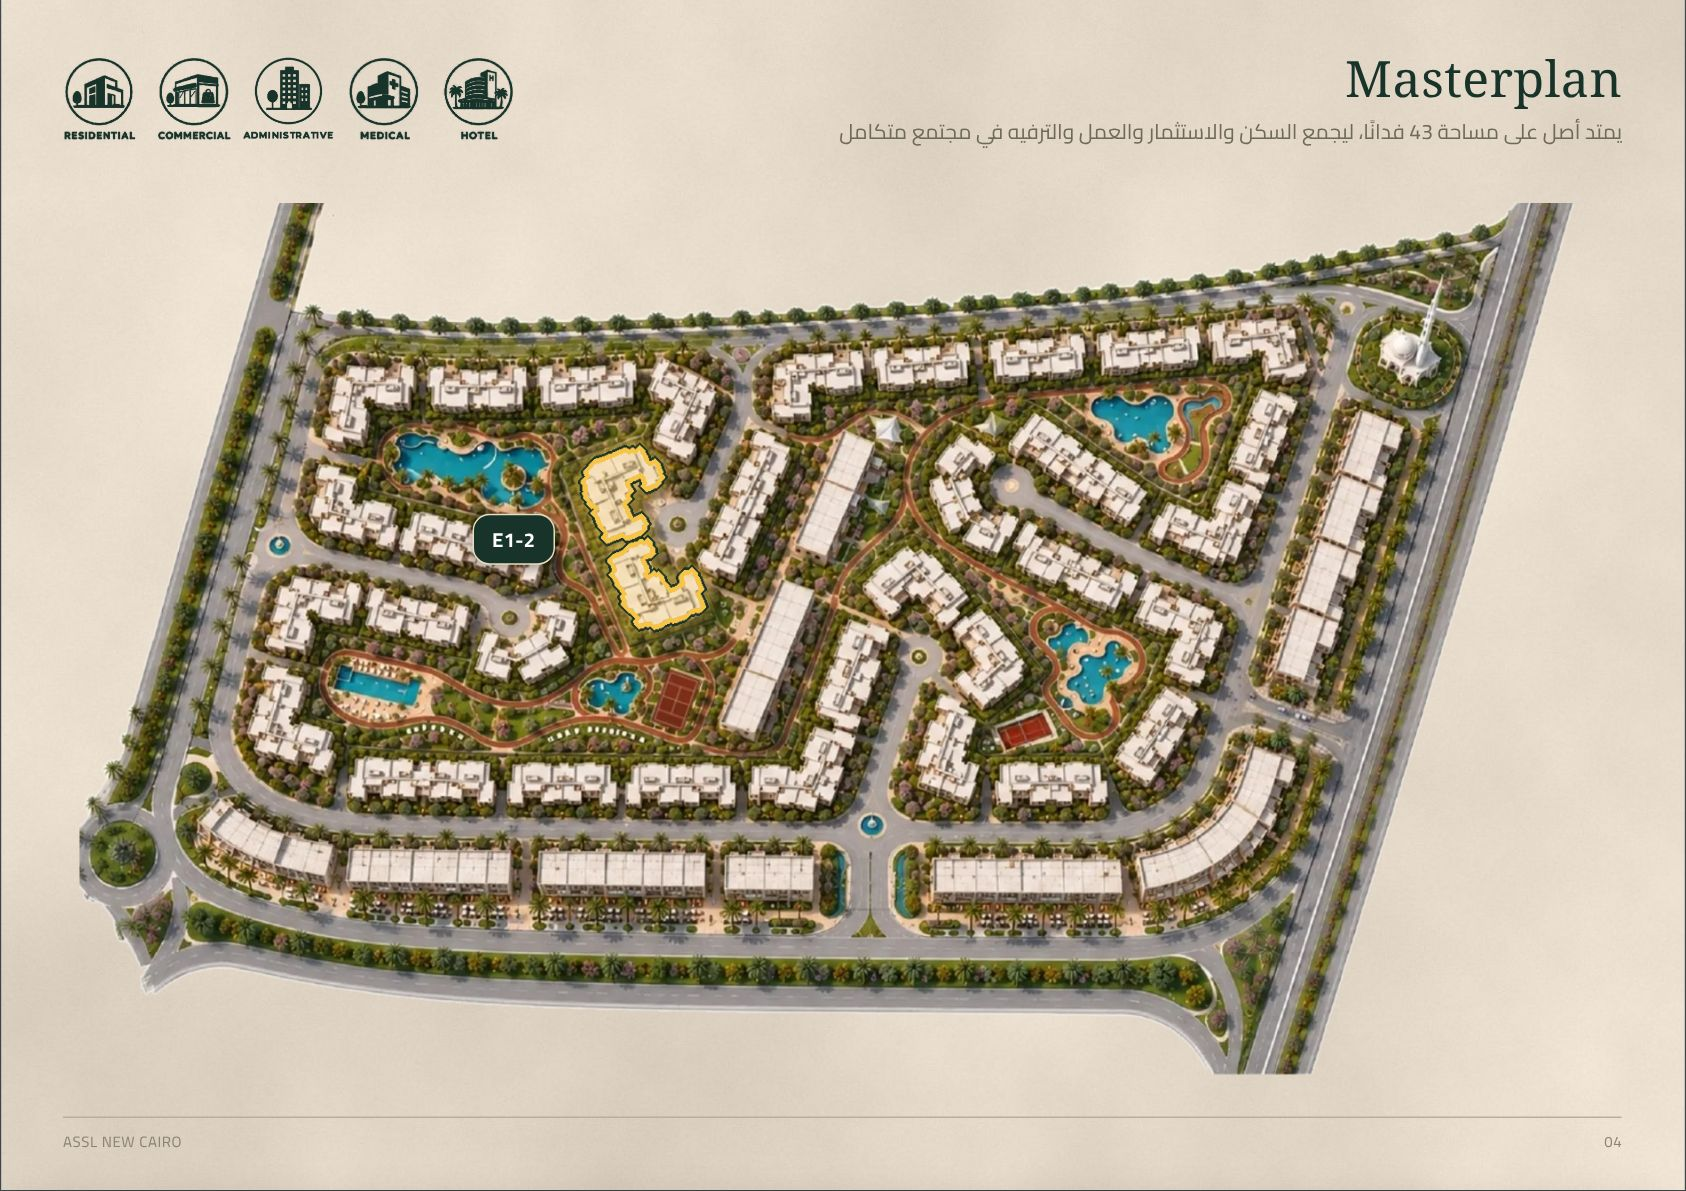
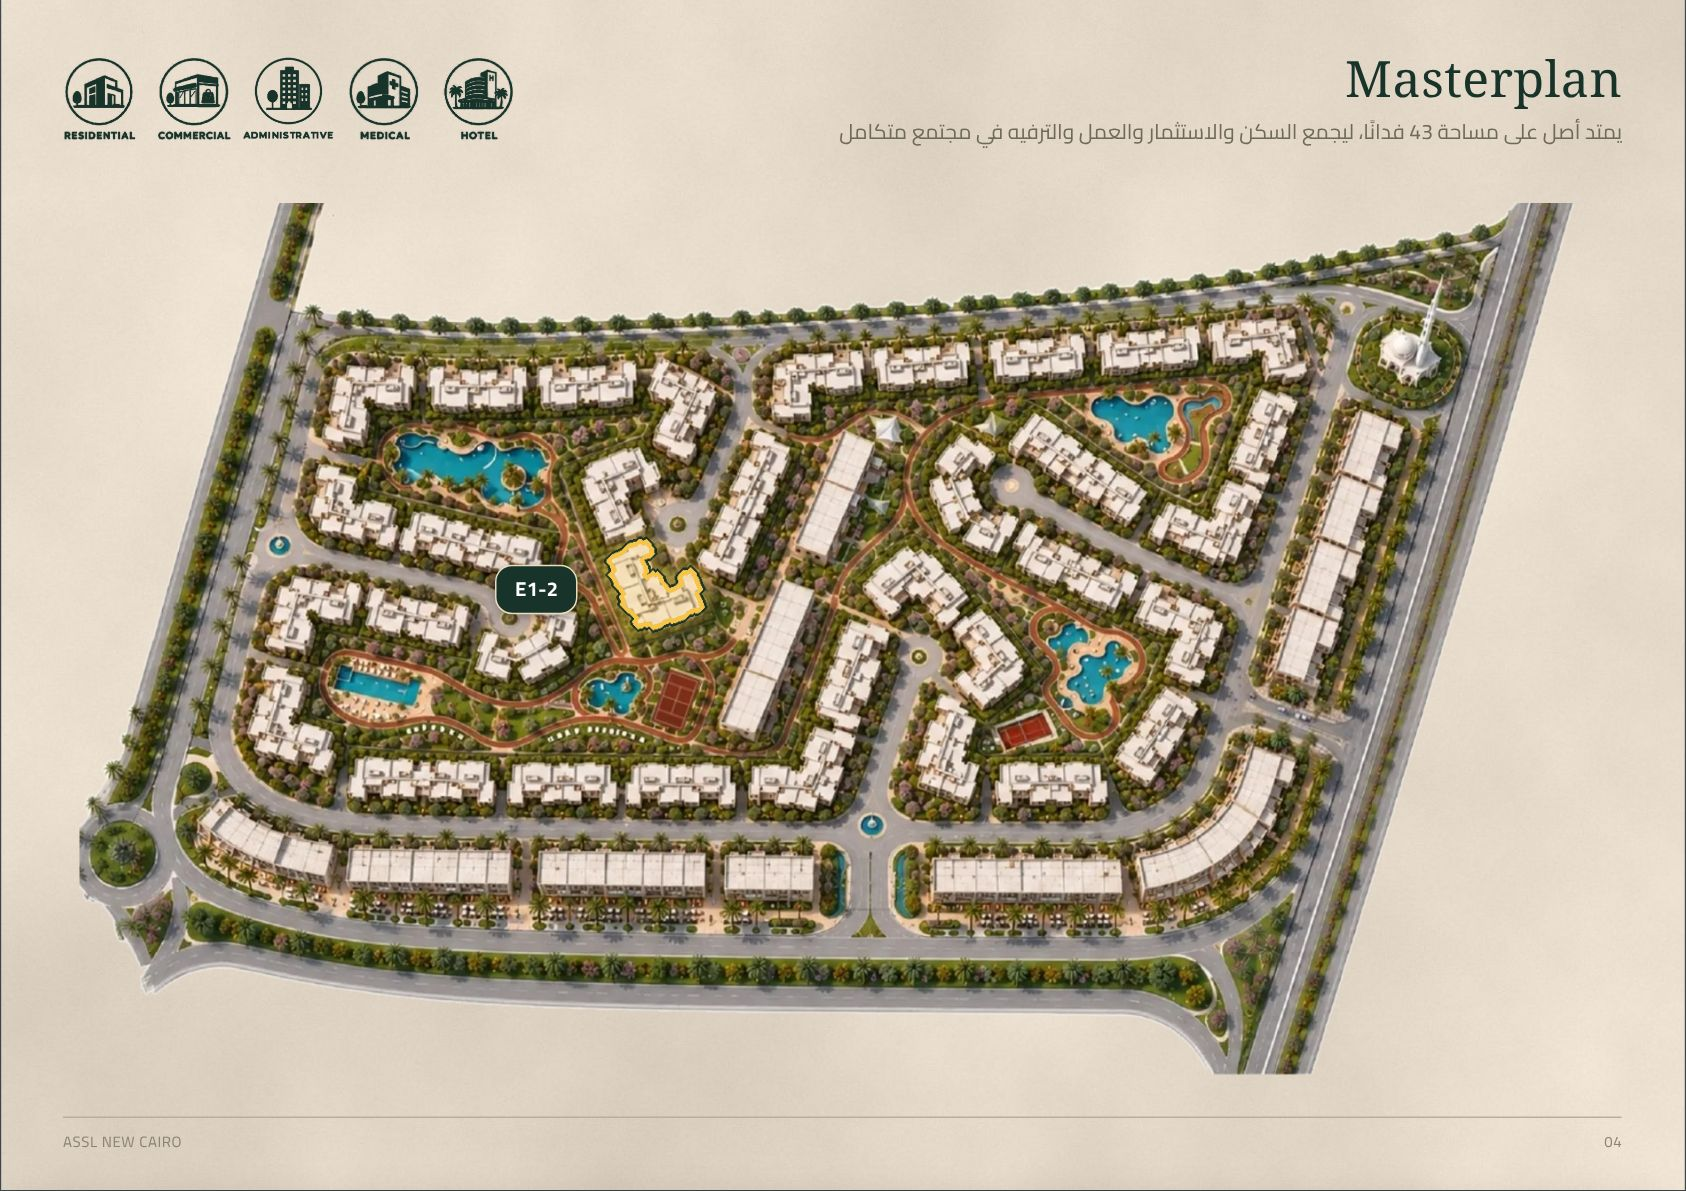
Masterplan: E1-2 outline covers only the lower building (upper one is E'1-2) (#12)
Claude-Session: https://claude.ai/code/session_01D7xEH891DwhXR7T5BSWwGE

Changed region(s): [[0.2776, 0.3728, 0.4318, 0.5281]]

diff --git a/offer/units.js b/offer/units.js
@@ -29,88 +29,9 @@ window.ASSL_UNIT_DETAIL = {
               beds: '3 (منها ماستر بدريسنج)', baths: '3', reception: '✓', terrace: '1' },
 };
 // Building outlines on masterplan_cut.webp as fractions [x0, y0, x1, y1] (matched from the brochure key plans)
-window.ASSL_BUILDING_BOX = {
- "H1-4": [
-  0.1611,
-  0.1823,
-  0.2229,
-  0.2826
- ],
- "A1-9": [
-  0.2306,
-  0.1845,
-  0.2962,
-  0.2403
- ],
- "A1-10": [
-  0.304,
-  0.1823,
-  0.3683,
-  0.238
- ],
- "D1-3": [
-  0.3773,
-  0.1778,
-  0.4223,
-  0.2982
- ],
- "D1-2": [
-  0.1521,
-  0.3005,
-  0.21,
-  0.3985
- ],
- "C1-3": [
-  0.2126,
-  0.354,
-  0.3065,
-  0.4409
- ],
- "E1-2": [
-  0.3323,
-  0.2804,
-  0.4133,
-  0.4922
- ],
- "H1-2": [
-  0.1238,
-  0.4298,
-  0.1856,
-  0.5212
- ],
- "A1-8": [
-  0.1894,
-  0.4409,
-  0.2589,
-  0.5122
- ],
- "F1-2": [
-  0.2615,
-  0.4565,
-  0.3297,
-  0.5524
- ],
- "H1-3": [
-  0.1109,
-  0.5301,
-  0.1688,
-  0.6594
- ],
- "C1-4": [
-  0.1779,
-  0.6348,
-  0.2756,
-  0.6906
- ],
- "A1-7": [
-  0.2834,
-  0.6415,
-  0.3554,
-  0.6906
- ]
-};
+window.ASSL_BUILDING_BOX = {"H1-4": [0.1611, 0.1823, 0.2229, 0.2826], "A1-9": [0.2306, 0.1845, 0.2962, 0.2403], "A1-10": [0.304, 0.1823, 0.3683, 0.238], "D1-3": [0.3773, 0.1778, 0.4223, 0.2982], "D1-2": [0.1521, 0.3005, 0.21, 0.3985], "C1-3": [0.2126, 0.354, 0.3065, 0.4409], "E1-2": [0.3471, 0.39, 0.4159, 0.4969], "H1-2": [0.1238, 0.4298, 0.1856, 0.5212], "A1-8": [0.1894, 0.4409, 0.2589, 0.5122], "F1-2": [0.2615, 0.4565, 0.3297, 0.5524], "H1-3": [0.1109, 0.5301, 0.1688, 0.6594], "C1-4": [0.1779, 0.6348, 0.2756, 0.6906], "A1-7": [0.2834, 0.6415, 0.3554, 0.6906]};
 // Gold outline overlays (offer/img/bld_<building>.png) and their position on masterplan_cut.webp
-window.ASSL_BUILDING_OVERLAY = {"H1-4": [0.1476, 0.1599, 0.2353, 0.3045], "A1-9": [0.2176, 0.1619, 0.3088, 0.2617], "A1-10": [0.2906, 0.1599, 0.3812, 0.2597], "D1-3": [0.3641, 0.1548, 0.4347, 0.3198], "D1-2": [0.1388, 0.278, 0.2229, 0.4206], "C1-3": [0.1994, 0.331, 0.3194, 0.4623], "E1-2": [0.3188, 0.2576, 0.4259, 0.5143], "H1-2": [0.1106, 0.4073, 0.1982, 0.5428], "A1-8": [0.1759, 0.4175, 0.2718, 0.5336], "F1-2": [0.2482, 0.4338, 0.3424, 0.5743], "H1-3": [0.0976, 0.5071, 0.1812, 0.6813], "C1-4": [0.1647, 0.612, 0.2882, 0.7128], "A1-7": [0.27, 0.6181, 0.3682, 0.7128]};
+window.ASSL_BUILDING_OVERLAY = {"H1-4": [0.1476, 0.1599, 0.2353, 0.3045], "A1-9": [0.2176, 0.1619, 0.3088, 0.2617], "A1-10": [0.2906, 0.1599, 0.3812, 0.2597], "D1-3": [0.3641, 0.1548, 0.4347, 0.3198], "D1-2": [0.1388, 0.278, 0.2229, 0.4206], "C1-3": [0.1994, 0.331, 0.3194, 0.4623], "E1-2": [0.3341, 0.3676, 0.4288, 0.5193], "H1-2": [0.1106, 0.4073, 0.1982, 0.5428], "A1-8": [0.1759, 0.4175, 0.2718, 0.5336], "F1-2": [0.2482, 0.4338, 0.3424, 0.5743], "H1-3": [0.0976, 0.5071, 0.1812, 0.6813], "C1-4": [0.1647, 0.612, 0.2882, 0.7128], "A1-7": [0.27, 0.6181, 0.3682, 0.7128]};
 // Furnished plan sizes (px) and unit outlines on them as [x, y] fractions, keyed 'Type-Floor' then AP number
 window.ASSL_FURN_SIZE = {"A_G": [1800, 840], "A_T": [1800, 872], "C_G": [1800, 810], "C_T": [1800, 810], "D_G": [1800, 1362], "D_T": [1800, 1420], "E_G": [1800, 1682], "E_T": [1800, 1689], "F_G": [1800, 1771], "F_T": [1800, 1800], "H_G": [1230, 1279], "H_T": [1231, 1278]};
 window.ASSL_UNIT_POLY = {"H-G":{"01":[[0.5357,0.0791],[0.7432,0.0791],[0.7432,0.0452],[0.9076,0.0452],[0.9076,0.0641],[0.978,0.0641],[0.978,0.2071],[0.7862,0.2071],[0.7862,0.1544],[0.5357,0.1544]],"02":[[0.5161,0.1582],[0.7197,0.1582],[0.7197,0.4217],[0.5161,0.4217]],"03":[[0.4417,0.5196],[0.5709,0.5196],[0.5709,0.4217],[0.6609,0.4217],[0.6609,0.5121],[0.7197,0.5121],[0.7197,0.5798],[0.6414,0.5798],[0.6414,0.6514],[0.4417,0.6514]],"04":[[0.1638,0.4933],[0.2342,0.4933],[0.2342,0.4556],[0.4378,0.4556],[0.4378,0.6551],[0.3321,0.6551],[0.3321,0.5972],[0.1638,0.5972]],"05":[[0.0855,0.4895],[0.1638,0.4895],[0.1638,0.6928],[0.2186,0.6928],[0.2186,0.8961],[0.0737,0.8961],[0.0737,0.8246],[0.0463,0.8246],[0.0463,0.674],[0.0855,0.674]],"06":[[0.3869,0.6928],[0.5803,0.6928],[0.5803,0.8472],[0.3869,0.8472]],"07":[[0.5803,0.6928],[0.7784,0.6928],[0.7784,0.8472],[0.5803,0.8472]],"08":[[0.7627,0.5535],[0.9193,0.5535],[0.9193,0.738],[0.7627,0.738]],"09":[[0.7627,0.369],[0.9193,0.369],[0.9193,0.5535],[0.7627,0.5535]]},"H-T":{"01":[[0.5255,0.0804],[0.7262,0.0804],[0.7262,0.0475],[0.8739,0.0475],[0.8739,0.0694],[0.9723,0.0694],[0.9723,0.2048],[0.7868,0.2048],[0.7868,0.1536],[0.5255,0.1536]],"02":[[0.499,0.1536],[0.7035,0.1536],[0.7035,0.4133],[0.499,0.4133]],"03":[[0.4309,0.4864],[0.5407,0.4864],[0.5407,0.4133],[0.6467,0.4133],[0.6467,0.5011],[0.7035,0.5011],[0.7035,0.5669],[0.6278,0.5669],[0.6278,0.6437],[0.4309,0.6437]],"04":[[0.1583,0.4498],[0.2264,0.4498],[0.2264,0.4206],[0.4309,0.4206],[0.4309,0.6437],[0.3287,0.6437],[0.3287,0.5852],[0.1583,0.5852]],"05":[[0.0825,0.4755],[0.1583,0.4755],[0.1583,0.6766],[0.2113,0.6766],[0.2113,0.9107],[0.0712,0.9107],[0.0712,0.8083],[0.0447,0.8083],[0.0447,0.6364],[0.0825,0.6364]],"06":[[0.3741,0.6766],[0.5619,0.6766],[0.5619,0.8559],[0.3741,0.8559]],"07":[[0.5619,0.6766],[0.7527,0.6766],[0.7527,0.8559],[0.5619,0.8559]],"08":[[0.7414,0.545],[0.9269,0.545],[0.9269,0.7279],[0.7414,0.7279]],"09":[[0.7414,0.3621],[0.9269,0.3621],[0.9269,0.545],[0.7414,0.545]]},"A-G":{"01":[[0.8612,0.1042],[0.9315,0.1042],[0.9315,0.4558],[0.9823,0.4558],[0.9823,0.7656],[0.9589,0.7656],[0.9589,0.9163],[0.83,0.9163],[0.83,0.5228],[0.8612,0.5228]],"02":[[0.5917,0.1042],[0.6581,0.1042],[0.6581,0.054],[0.7831,0.054],[0.7831,0.1126],[0.8612,0.1126],[0.8612,0.3386],[0.6893,0.3386],[0.6893,0.4558],[0.5917,0.4558]],"03":[[0.3846,0.1042],[0.5018,0.1042],[0.5018,0.0205],[0.5565,0.0205],[0.5565,0.1544],[0.5917,0.1544],[0.5917,0.3386],[0.4979,0.3386],[0.4979,0.4558],[0.3846,0.4558]],"04":[[0.1346,0.1126],[0.1932,0.1126],[0.1932,0.054],[0.3182,0.054],[0.3182,0.0958],[0.3807,0.0958],[0.3807,0.4558],[0.2869,0.4558],[0.2869,0.3386],[0.1346,0.3386]],"05":[[0.0642,0.1042],[0.1346,0.1042],[0.1346,0.5228],[0.1658,0.5228],[0.1658,0.9163],[0.0369,0.9163],[0.0369,0.7656],[0.0135,0.7656],[0.0135,0.4558],[0.0642,0.4558]],"06":[[0.3221,0.5228],[0.4979,0.5228],[0.4979,0.8409],[0.3221,0.8409]],"07":[[0.4979,0.5228],[0.6737,0.5228],[0.6737,0.8409],[0.4979,0.8409]]},"A-T":{"01":[[0.8688,0.119],[0.9402,0.119],[0.9402,0.422],[0.9917,0.422],[0.9917,0.7324],[0.968,0.7324],[0.968,0.9024],[0.8371,0.9024],[0.8371,0.5107],[0.8688,0.5107]],"02":[[0.5952,0.0895],[0.6586,0.0895],[0.6586,0.0451],[0.7895,0.0451],[0.7895,0.0969],[0.8688,0.0969],[0.8688,0.3333],[0.6943,0.3333],[0.6943,0.4442],[0.5952,0.4442]],"03":[[0.385,0.1043],[0.4445,0.1043],[0.4445,0.0895],[0.504,0.0895],[0.504,0.0156],[0.5635,0.0156],[0.5635,0.1486],[0.5952,0.1486],[0.5952,0.3333],[0.5,0.3333],[0.5,0.4442],[0.385,0.4442]],"04":[[0.1312,0.1412],[0.1907,0.1412],[0.1907,0.0451],[0.3176,0.0451],[0.3176,0.0821],[0.381,0.0821],[0.381,0.4442],[0.2859,0.4442],[0.2859,0.3333],[0.1312,0.3333]],"05":[[0.0598,0.119],[0.1312,0.119],[0.1312,0.4811],[0.1629,0.4811],[0.1629,0.9024],[0.0281,0.9024],[0.0281,0.7324],[0.0083,0.7324],[0.0083,0.4442],[0.0598,0.4442]],"06":[[0.3215,0.5107],[0.5,0.5107],[0.5,0.8285],[0.3215,0.8285]],"07":[[0.5,0.5107],[0.6785,0.5107],[0.6785,0.8285],[0.5,0.8285]]},"D-G":{"01":[[0.5325,0.0932],[0.7103,0.0932],[0.7103,0.0215],[0.8627,0.0215],[0.8627,0.055],[0.9353,0.055],[0.9353,0.2414],[0.8663,0.2414],[0.8663,0.2175],[0.7901,0.2175],[0.7901,0.2414],[0.743,0.2414],[0.743,0.1936],[0.5325,0.1936]],"02":[[0.5761,0.1936],[0.703,0.1936],[0.703,0.4613],[0.6269,0.4613],[0.6269,0.5712],[0.4708,0.5712],[0.4708,0.3896],[0.5325,0.3896],[0.5325,0.3657],[0.5507,0.3657],[0.5507,0.2796],[0.5761,0.2796]],"03":[[0.1697,0.3083],[0.3765,0.3083],[0.3765,0.3466],[0.4454,0.3466],[0.4454,0.4948],[0.2785,0.4948],[0.2785,0.5712],[0.1733,0.5712]],"04":[[0.0935,0.3418],[0.1697,0.3418],[0.1697,0.619],[0.206,0.619],[0.206,0.8724],[0.0645,0.8724],[0.0645,0.7768],[0.0391,0.7768],[0.0391,0.5665],[0.0971,0.5665]],"05":[[0.3801,0.6286],[0.5107,0.6286],[0.5107,0.7003],[0.6051,0.7003],[0.6051,0.9202],[0.5107,0.9202],[0.5107,0.8628],[0.3801,0.8628]],"06":[[0.6051,0.6286],[0.7901,0.6286],[0.7901,0.7816],[0.7611,0.7816],[0.7611,0.8389],[0.6051,0.8389]],"07":[[0.743,0.5426],[0.8917,0.5426],[0.8917,0.6238],[0.9026,0.6238],[0.9026,0.729],[0.7901,0.729],[0.7901,0.5904],[0.743,0.5904]]},"D-T":{"01":[[0.5145,0.091],[0.6961,0.091],[0.6961,0.02],[0.8516,0.02],[0.8516,0.0531],[0.948,0.0531],[0.948,0.2331],[0.8479,0.2331],[0.8479,0.2047],[0.7701,0.2047],[0.7701,0.2331],[0.7294,0.2331],[0.7294,0.1905],[0.5145,0.1905]],"02":[[0.5405,0.1905],[0.6887,0.1905],[0.6887,0.451],[0.6109,0.451],[0.6109,0.5458],[0.459,0.5458],[0.459,0.3752],[0.522,0.3752],[0.522,0.3515],[0.5405,0.3515]],"03":[[0.1626,0.2994],[0.233,0.2994],[0.233,0.2568],[0.3664,0.2568],[0.3664,0.2994],[0.433,0.2994],[0.433,0.4747],[0.2663,0.4747],[0.2663,0.5505],[0.1626,0.5505]],"04":[[0.0885,0.3184],[0.1626,0.3184],[0.1626,0.6026],[0.1997,0.6026],[0.1997,0.8726],[0.0552,0.8726],[0.0552,0.7447],[0.033,0.7447],[0.033,0.5126],[0.0885,0.5126]],"05":[[0.3701,0.6026],[0.4997,0.6026],[0.4997,0.6689],[0.5923,0.6689],[0.5923,0.9152],[0.496,0.9152],[0.496,0.8489],[0.3701,0.8489]],"06":[[0.5923,0.6026],[0.7739,0.6026],[0.7739,0.7684],[0.7257,0.7684],[0.7257,0.8252],[0.5923,0.8252]],"07":[[0.7294,0.5221],[0.8813,0.5221],[0.8813,0.6026],[0.9146,0.6026],[0.9146,0.6973],[0.7739,0.6973],[0.7739,0.5836],[0.7294,0.5836]]},"C-G":{"01":[[0.8976,0.178],[0.946,0.178],[0.946,0.4573],[0.9798,0.4573],[0.9798,0.6506],[0.9653,0.6506],[0.9653,0.7741],[0.8711,0.7741],[0.8711,0.4895],[0.8976,0.4895]],"02":[[0.7212,0.1941],[0.7647,0.1941],[0.7647,0.1458],[0.8976,0.1458],[0.8976,0.4304],[0.8348,0.4304],[0.8348,0.3499],[0.7212,0.3499]],"03":[[0.5762,0.1458],[0.598,0.1458],[0.598,0.119],[0.6439,0.119],[0.6439,0.178],[0.7212,0.178],[0.7212,0.4304],[0.6439,0.4304],[0.6439,0.3499],[0.5762,0.3499]],"04":[[0.4167,0.178],[0.5351,0.178],[0.5351,0.4304],[0.4167,0.4304]],"05":[[0.2766,0.178],[0.3539,0.178],[0.3539,0.119],[0.3974,0.119],[0.3974,0.1565],[0.4167,0.1565],[0.4167,0.3499],[0.3515,0.3499],[0.3515,0.4304],[0.2766,0.4304]],"06":[[0.0977,0.1512],[0.2306,0.1512],[0.2306,0.1941],[0.2766,0.1941],[0.2766,0.3499],[0.1654,0.3499],[0.1654,0.4304],[0.0977,0.4304]],"07":[[0.0518,0.178],[0.0977,0.178],[0.0977,0.4895],[0.1291,0.4895],[0.1291,0.7688],[0.0349,0.7688],[0.0349,0.6506],[0.018,0.6506],[0.018,0.4573],[0.0518,0.4573]],"08":[[0.2379,0.4895],[0.3249,0.4895],[0.3249,0.699],[0.2379,0.699]],"09":[[0.3249,0.4895],[0.4433,0.4895],[0.4433,0.7151],[0.3249,0.7151]],"10":[[0.5545,0.4895],[0.6729,0.4895],[0.6729,0.699],[0.5545,0.699]],"11":[[0.6729,0.4895],[0.7599,0.4895],[0.7599,0.699],[0.6729,0.699]]},"C-T":{"01":[[0.8976,0.1707],[0.946,0.1707],[0.946,0.4178],[0.9798,0.4178],[0.9798,0.6594],[0.9653,0.6594],[0.9653,0.8098],[0.8711,0.8098],[0.8711,0.493],[0.8976,0.493]],"02":[[0.7212,0.1493],[0.7647,0.1493],[0.7647,0.1063],[0.8976,0.1063],[0.8976,0.4339],[0.8324,0.4339],[0.8324,0.3533],[0.7212,0.3533]],"03":[[0.5762,0.1493],[0.598,0.1493],[0.598,0.0794],[0.6439,0.0794],[0.6439,0.1654],[0.7212,0.1654],[0.7212,0.4339],[0.6439,0.4339],[0.6439,0.3533],[0.5762,0.3533]],"04":[[0.4167,0.1761],[0.5376,0.1761],[0.5376,0.4339],[0.4167,0.4339]],"05":[[0.2766,0.1815],[0.3152,0.1815],[0.3152,0.1331],[0.3539,0.1331],[0.3539,0.0794],[0.3998,0.0794],[0.3998,0.1654],[0.4167,0.1654],[0.4167,0.348],[0.3515,0.348],[0.3515,0.4339],[0.2766,0.4339]],"06":[[0.0977,0.1385],[0.1436,0.1385],[0.1436,0.1063],[0.2306,0.1063],[0.2306,0.1546],[0.2766,0.1546],[0.2766,0.348],[0.1654,0.348],[0.1654,0.4339],[0.0977,0.4339]],"07":[[0.0518,0.1707],[0.0977,0.1707],[0.0977,0.493],[0.1146,0.493],[0.1146,0.6648],[0.1267,0.6648],[0.1267,0.8152],[0.0325,0.8152],[0.0325,0.6594],[0.018,0.6594],[0.018,0.4178],[0.0518,0.4178]],"08":[[0.2355,0.493],[0.3249,0.493],[0.3249,0.7346],[0.2355,0.7346]],"09":[[0.3249,0.493],[0.4457,0.493],[0.4457,0.7507],[0.3249,0.7507]],"10":[[0.5521,0.493],[0.6729,0.493],[0.6729,0.7561],[0.5521,0.7561]],"11":[[0.6729,0.493],[0.7599,0.493],[0.7599,0.74],[0.6729,0.74]]},"E-G":{"01":[[0.4811,0.0153],[0.7399,0.0153],[0.7399,0.0845],[0.9073,0.0845],[0.9073,0.1904],[0.7437,0.1904],[0.7437,0.1619],[0.7018,0.1619],[0.7018,0.2067],[0.5648,0.2067],[0.5648,0.2108],[0.4811,0.2108]],"02":[[0.4088,0.451],[0.6257,0.451],[0.6257,0.4185],[0.7018,0.4185],[0.7018,0.6587],[0.4088,0.6587]],"03":[[0.0549,0.4266],[0.2185,0.4266],[0.2185,0.6424],[0.1767,0.6424],[0.1767,0.9031],[0.0968,0.9031],[0.0968,0.7035],[0.0282,0.7035],[0.0282,0.5081],[0.0549,0.5081]],"04":[[0.1995,0.7076],[0.5039,0.7076],[0.5039,0.9479],[0.2718,0.9479],[0.2718,0.8909],[0.1995,0.8909]],"05":[[0.5039,0.7076],[0.8046,0.7076],[0.8046,0.8909],[0.7361,0.8909],[0.7361,0.9479],[0.5039,0.9479]],"06":[[0.7437,0.5081],[0.9682,0.5081],[0.9682,0.8216],[0.9302,0.8216],[0.9302,0.842],[0.8084,0.842],[0.8084,0.7361],[0.7437,0.7361]],"07":[[0.8046,0.1904],[0.9302,0.1904],[0.9302,0.2556],[0.972,0.2556],[0.972,0.4185],[0.9682,0.4185],[0.9682,0.5081],[0.7437,0.5081],[0.7437,0.3655],[0.8046,0.3655]]},"E-T":{"01":[[0.428,0.0348],[0.7076,0.0348],[0.7076,0.0992],[0.8851,0.0992],[0.8851,0.2039],[0.7718,0.2039],[0.7718,0.1798],[0.6698,0.1798],[0.6698,0.224],[0.5376,0.224],[0.5376,0.2281],[0.428,0.2281]],"02":[[0.3902,0.4575],[0.6018,0.4575],[0.6018,0.4253],[0.6698,0.4253],[0.6698,0.6548],[0.3902,0.6548]],"03":[[0.0502,0.3972],[0.2013,0.3972],[0.2013,0.6307],[0.1636,0.6307],[0.1636,0.9004],[0.088,0.9004],[0.088,0.6951],[0.0238,0.6951],[0.0238,0.5139],[0.0502,0.5139]],"04":[[0.19,0.7635],[0.4809,0.7635],[0.4809,0.9648],[0.2618,0.9648],[0.2618,0.9246],[0.19,0.9246]],"05":[[0.4809,0.7635],[0.7718,0.7635],[0.7718,0.9246],[0.7038,0.9246],[0.7038,0.9648],[0.4809,0.9648]],"06":[[0.7151,0.5099],[0.9607,0.5099],[0.9607,0.7877],[0.9267,0.7877],[0.9267,0.8118],[0.7756,0.8118],[0.7756,0.7031],[0.7151,0.7031]],"07":[[0.7756,0.2039],[0.8889,0.2039],[0.8889,0.2683],[0.9607,0.2683],[0.9607,0.4253],[0.9304,0.4253],[0.9304,0.5099],[0.7151,0.5099],[0.7151,0.377],[0.7756,0.377]]},"F-G":{"01":[[0.5187,0.0235],[0.904,0.0235],[0.904,0.1387],[0.7264,0.1387],[0.7264,0.1886],[0.6849,0.1886],[0.6849,0.2001],[0.5187,0.2001]],"02":[[0.6139,0.3529],[0.4794,0.4812],[0.5763,0.5862],[0.7108,0.4579]],"03":[[0.4794,0.4812],[0.3445,0.6098],[0.4414,0.7148],[0.5763,0.5862]],"04":[[0.0464,0.5226],[0.2013,0.5226],[0.2013,0.6916],[0.1409,0.6916],[0.1409,0.9373],[0.0691,0.9373],[0.0691,0.7453],[0.0238,0.7453],[0.0238,0.5956],[0.0464,0.5956]],"05":[[0.1409,0.8221],[0.3071,0.8221],[0.3071,0.7722],[0.4129,0.7722],[0.4129,0.9642],[0.1409,0.9642]],"06":[[0.752,0.7561],[0.6111,0.9091],[0.4773,0.7817],[0.6181,0.6288]],"07":[[0.9361,0.5562],[0.752,0.7561],[0.6181,0.6288],[0.8023,0.4288]],"08":[[0.8171,0.1387],[0.9267,0.1387],[0.9267,0.2193],[0.9478,0.2193],[0.9478,0.4151],[0.7604,0.4151],[0.7604,0.3076],[0.8171,0.3076]]},"F-T":{"01":[[0.4947,0.0468],[0.5906,0.0468],[0.5906,0.0277],[0.7439,0.0277],[0.7439,0.0698],[0.9317,0.0698],[0.9317,0.1427],[0.7247,0.1427],[0.7247,0.1733],[0.6749,0.1733],[0.6749,0.204],[0.4947,0.204]],"02":[[0.5972,0.3278],[0.4641,0.4554],[0.5832,0.5797],[0.7164,0.4521]],"03":[[0.4641,0.4554],[0.3305,0.5834],[0.4496,0.7077],[0.5832,0.5797]],"04":[[0.0462,0.4992],[0.1996,0.4992],[0.1996,0.687],[0.1382,0.687],[0.1382,0.9592],[0.0654,0.9592],[0.0654,0.7407],[0.0194,0.7407],[0.0194,0.5758],[0.0462,0.5758]],"05":[[0.1382,0.8212],[0.3069,0.8212],[0.3069,0.7675],[0.4142,0.7675],[0.4142,0.9707],[0.1382,0.9707]],"06":[[0.7735,0.7658],[0.6346,0.9158],[0.4797,0.7723],[0.6187,0.6223]],"07":[[0.9556,0.5694],[0.7735,0.7658],[0.6187,0.6223],[0.8007,0.4259]],"08":[[0.8206,0.1427],[0.9279,0.1427],[0.9279,0.1848],[0.957,0.1848],[0.957,0.4148],[0.7631,0.4148],[0.7631,0.3113],[0.8206,0.3113]]}};

diff --git a/index.html b/index.html
@@ -96,7 +96,7 @@ input[readonly]{background:#f9f8f6;color:var(--text-2);cursor:default;}
   .ph-header,.ph-table th,.ph-sub th,.ph-even td,.ph-tot td,.ph-yc{-webkit-print-color-adjust:exact;print-color-adjust:exact;}
 }
 </style>
-<link rel="stylesheet" href="offer/offer.css?v=20261107c">
+<link rel="stylesheet" href="offer/offer.css?v=20261109a">
 <script>
 // ARX logo data URIs (injected at build time)
[1 lines of base64/hex data omitted]
@@ -716,7 +716,7 @@ function exportExcel() {
 // ── INIT ──
 loadSheet().then(() => window.__offer && window.__offer.refreshOffer());
 </script>
-<script src="offer/units.js?v=20261107c"></script>
-<script src="offer/offer.js?v=20261107c"></script>
+<script src="offer/units.js?v=20261109a"></script>
+<script src="offer/offer.js?v=20261109a"></script>
 </body>
 </html>

diff --git a/offer/offer.js b/offer/offer.js
@@ -4,7 +4,7 @@
 (function () {
   const U = window.ASSL_UNITS;
   const IMG = 'offer/img/';
-  const OFFER_VER = '20261107c';
+  const OFFER_VER = '20261109a';
   const $ = id => document.getElementById(id);
   const val = id => ($(id) ? $(id).value.trim() : '');
   const FLOORS = [
